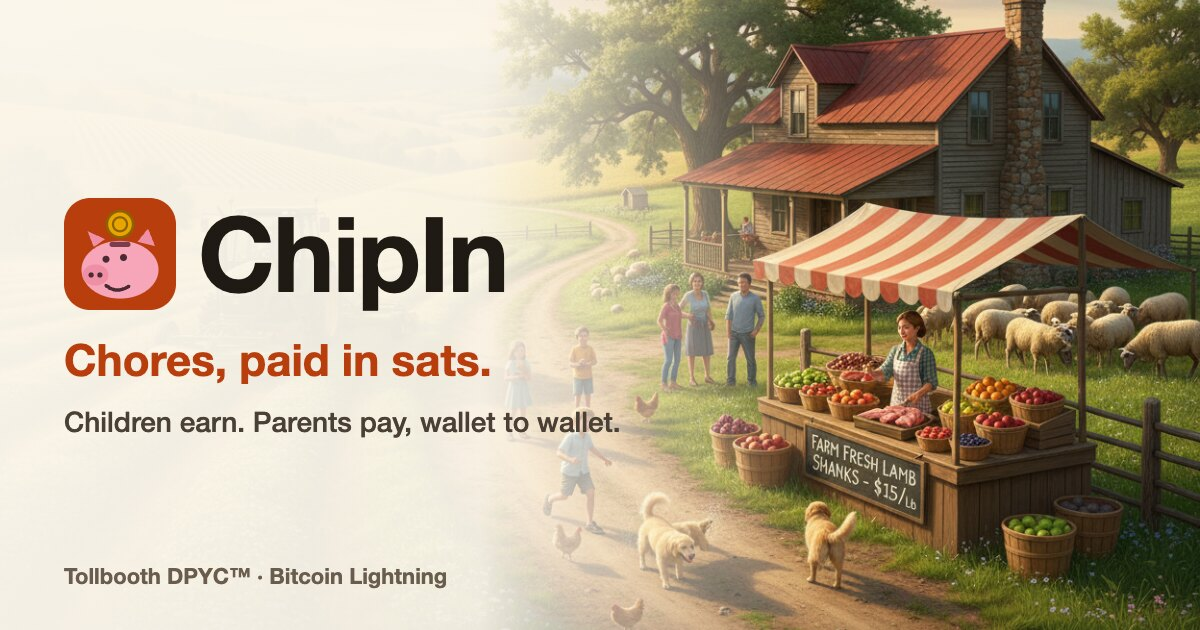
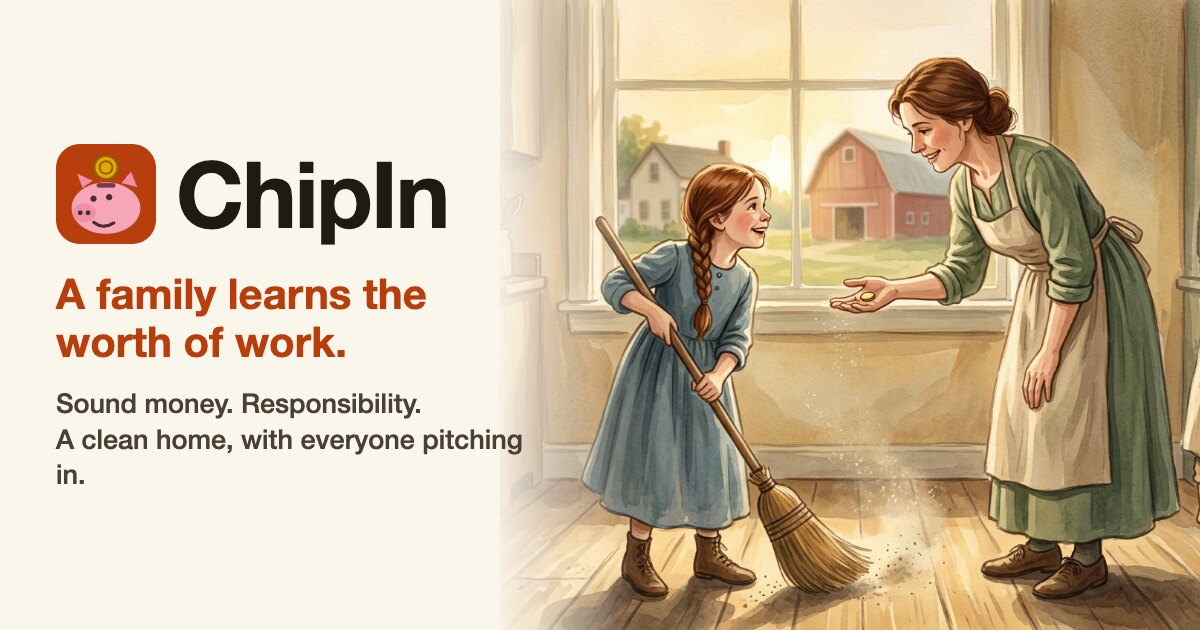
feat: a share image and words that set the scene

diff --git a/frontend/index.html b/frontend/index.html
@@ -3,21 +3,21 @@
   <head>
     <meta charset="UTF-8" />
     <meta name="viewport" content="width=device-width, initial-scale=1.0" />
-    <meta name="description" content="ChipIn: chores for the household, paid in sats from your own Lightning wallet. Sign in with a Nostr key." />
+    <meta name="description" content="ChipIn helps a family teach the worth of work. Children do chores, parents reward a job well done, and everyone learns sound money, responsibility and the good of a clean home." />
     <link rel="manifest" href="/manifest.webmanifest" />
     <link rel="icon" href="/icon.svg" type="image/svg+xml" />
     <link rel="apple-touch-icon" href="/apple-touch-icon.png" />
     <meta name="theme-color" content="#b93e0e" />
-    <title>ChipIn: chores paid in sats</title>
+    <title>ChipIn: a family learns the worth of work</title>
     <meta property="og:type" content="website" />
     <meta property="og:site_name" content="ChipIn" />
-    <meta property="og:title" content="ChipIn" />
-    <meta property="og:description" content="Chores for the household, paid in sats." />
+    <meta property="og:title" content="ChipIn: a family learns the worth of work" />
+    <meta property="og:description" content="Sound money, responsibility, and a clean home with everyone pitching in." />
     <meta property="og:url" content="https://chipin.tollbooth-dpyc.com" />
     <meta property="og:image" content="https://chipin.tollbooth-dpyc.com/og-image.jpg" />
     <meta property="og:image:width" content="1200" />
     <meta property="og:image:height" content="630" />
-    <meta property="og:image:alt" content="ChipIn: chores, paid in sats. A family farm with a roadside stand." />
+    <meta property="og:image:alt" content="A mother hands her daughter a coin for sweeping the kitchen floor." />
     <meta name="twitter:card" content="summary_large_image" />
     <meta name="twitter:image" content="https://chipin.tollbooth-dpyc.com/og-image.jpg" />
   </head>

diff --git a/changelog.d/changed-share-image-and-words.md b/changelog.d/changed-share-image-and-words.md
@@ -1,0 +1,1 @@
+- The picture and words shown when a ChipIn link is shared now set the scene: a mother rewarding her daughter for sweeping, and "A family learns the worth of work."
